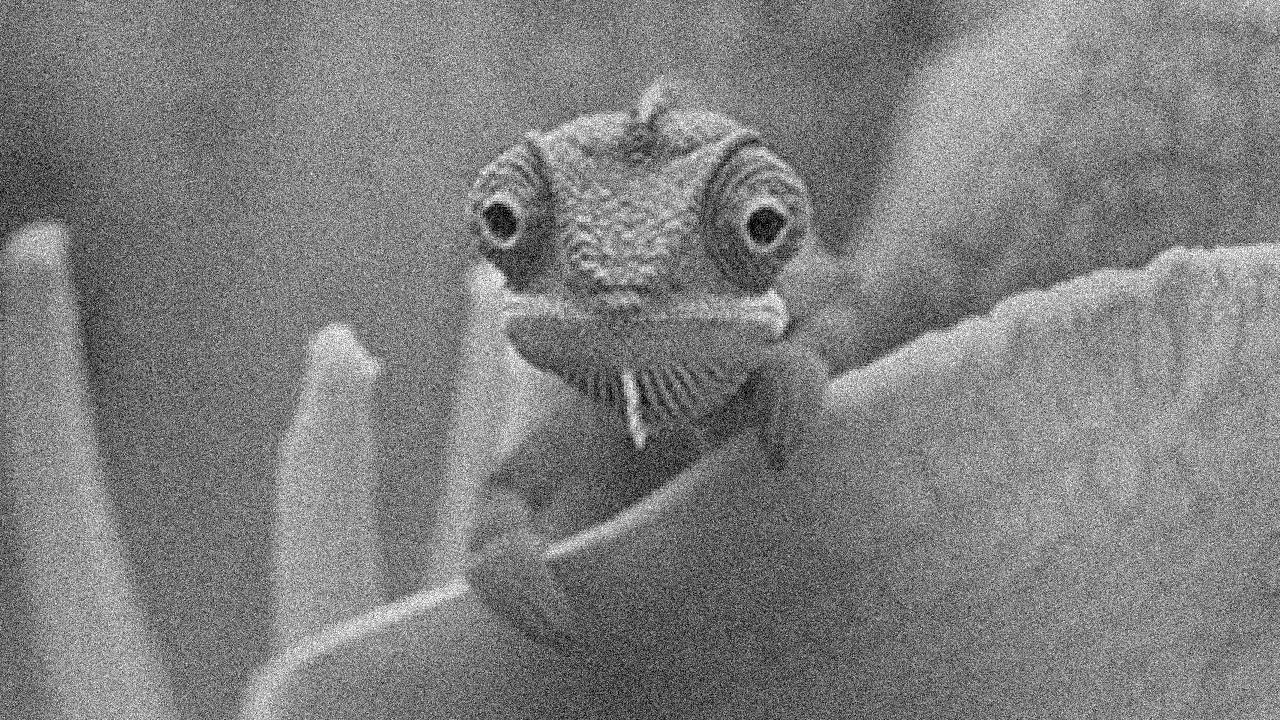
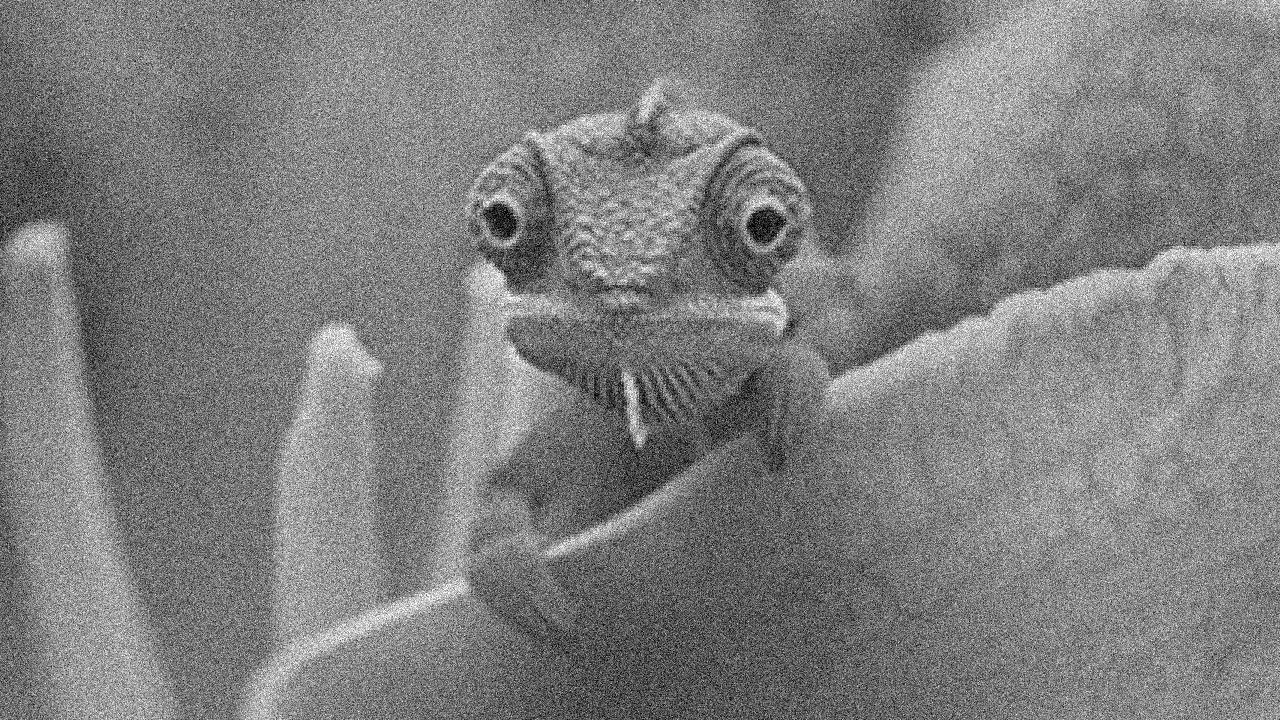
filtro gaussiano (2)

diff --git a/main.py b/main.py
@@ -1,5 +1,5 @@
 from utils import load_image, save_image, create_output_folder, add_noise
-from filters import mean_filter
+from filters import mean_filter, gaussian_filter  # aggiungeremo altri filtri qui
 import numpy as np
 
 def main():
@@ -10,27 +10,35 @@ def main():
 
     create_output_folder()
 
-    # 1. Carica immagine originale
+    # Carica immagine originale
     image = load_image(input_path)
 
-    # 2. Aggiungi rumore artificiale (es. gaussiano)
+    #  Aggiungi rumore artificiale (es. gaussiano)
     noisy_image = add_noise(image, noise_type="gaussian", amount=30)
     save_image(noisy_image, noisy_path)
 
-    # 3. Applica filtro di media
-    filtered_image = mean_filter(noisy_image, kernel_size=3)
+  
+
+    # Filtro di media
+    # filtered_image = mean_filter(noisy_image, kernel_size=3)
+    # filtro_descrizione = "Filtro di Media (3x3)"
+
+    # Filtro Gaussiano
+    filtered_image = gaussian_filter(noisy_image, kernel_size=5, sigma=1.0)
+    filtro_descrizione = "Filtro Gaussiano (5x5, σ = 1.0)"
+
     save_image(filtered_image, output_image_path)
 
-    # 4. Dati statistici per il log
+    #  Dati statistici per il log
     mean_before = np.mean(noisy_image)
     mean_after = np.mean(filtered_image)
     var_before = np.var(noisy_image)
     var_after = np.var(filtered_image)
 
-    # 5. Log dettagliato
+    #  Log dettagliato
     with open(output_log_path, "w", encoding="utf-8") as log_file:
         log_file.write("LOG DEL PROGRAMMA\n")
-        log_file.write("Filtro applicato: Filtro di Media (3x3)\n")
+        log_file.write(f"Filtro applicato: {filtro_descrizione}\n")
         log_file.write("Rumore aggiunto: Gaussiano (σ = 30)\n")
         log_file.write(f"Media pixel prima del filtro: {mean_before:.2f}\n")
         log_file.write(f"Media pixel dopo il filtro: {mean_after:.2f}\n")

diff --git a/filters.py b/filters.py
@@ -18,3 +18,36 @@ def mean_filter(image, kernel_size=3):
             filtered_image[i, j] = np.mean(window)
 
     return filtered_image
+
+
+
+def gaussian_kernel(size, sigma=1):
+    """
+    Crea un kernel gaussiano 2D normalizzato.
+    """
+    ax = np.arange(-size // 2 + 1., size // 2 + 1.)
+    xx, yy = np.meshgrid(ax, ax)
+    kernel = np.exp(-(xx**2 + yy**2) / (2. * sigma**2))
+    return kernel / np.sum(kernel)
+
+def gaussian_filter(image, kernel_size=3, sigma=1):
+    """
+    Applica un filtro gaussiano a un'immagine.
+    - image: array 2D grayscale
+    - kernel_size: dimensione del filtro (deve essere dispari)
+    - sigma: deviazione standard della gaussiana
+    """
+    kernel = gaussian_kernel(kernel_size, sigma)
+    pad_size = kernel_size // 2
+    padded_image = np.pad(image, pad_size, mode='edge')
+    filtered_image = np.zeros_like(image)
+
+    height, width = image.shape
+
+    for i in range(height):
+        for j in range(width):
+            region = padded_image[i:i+kernel_size, j:j+kernel_size]
+            filtered_pixel = np.sum(region * kernel)
+            filtered_image[i, j] = filtered_pixel
+
+    return filtered_image
